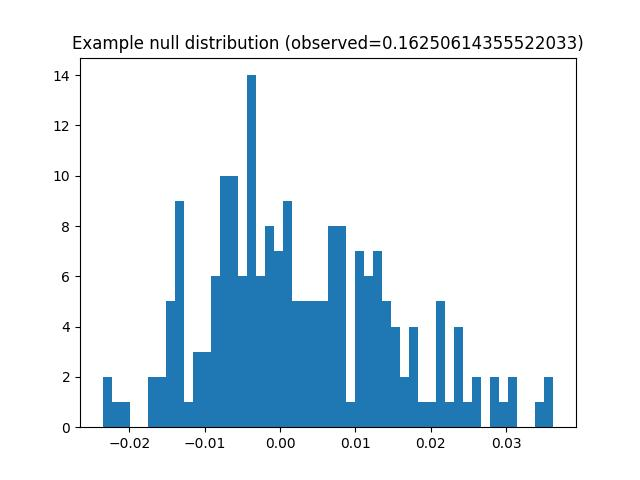
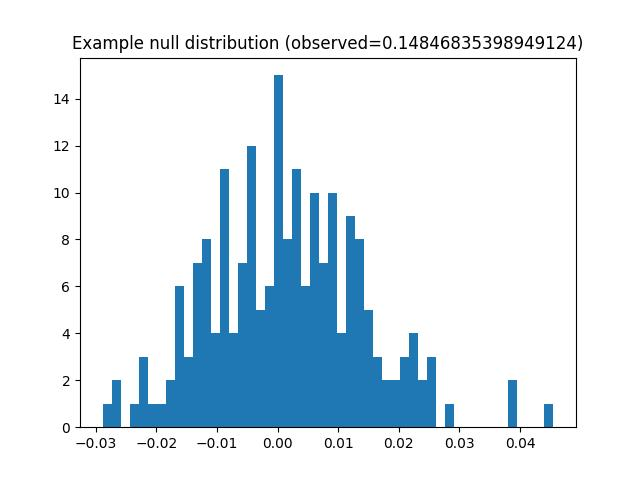
adding mean and stdev checks

diff --git a/sim_isc.py b/sim_isc.py
@@ -11,43 +11,52 @@ import pandas as pd
 
 import scipy
 
-ntp=200
-nsubj=20
-nsim = 100
+ntp = 200
+nsubj = 20
+nsim = 50
 norder = 6  # normally the voxels dimension, here I'm using it for our different orders
 
 amp_noise_mean = 2
 amp_noise_std = 1
-amp_order_factor = [1,1,1,1.2,0.8,0.7] # some orders have less signal and more noise
+# some orders have less signal and more noise
+amp_order_factor = [1, 1, 1, 1.2, 0.8, 0.7]
 
 # Noise
-allisc=[]
-allp_sw=[]
-allp_combined_method1_sw=[]
-allp_combined_method2_sw=[]
-allp_ew=[]
+allisc = []
+allp_sw = []
+allp_combined_method1_sw = []
+allp_combined_method2_sw = []
+allp_ew = []
+allmean_sw = []
+allstd_sw = []
+allmean_combined_method2_sw = []
+allstd_combined_method2_sw = []
 
 # Signal amplitude
 
-df=pd.DataFrame()
+df = pd.DataFrame()
 
-for amp_sig in np.arange(0,1,0.1):
-        
+for amp_sig in np.arange(0, 1, 0.25):
+
     for simind in range(nsim):
-        y=np.zeros((ntp, norder, nsubj)) 
+        y = np.zeros((ntp, norder, nsubj))
         for orderind in range(norder):
-            sig =  amp_order_factor[orderind] * amp_sig * np.random.randn(ntp) # Signal for a given orderel (i.e., order)        
+            # Signal for a given orderel (i.e., order)
+            sig = amp_order_factor[orderind] * amp_sig * np.random.randn(ntp)
             for subjind in range(nsubj):
-                subjnoise = amp_noise_mean + np.random.randn(1)*amp_noise_std # add noise for each subject (some better than others)
-                y[:,orderind,subjind] = np.random.randn(ntp) / amp_order_factor[orderind] * subjnoise + sig # signal same for all subjects
+                # add noise for each subject (some better than others)
+                subjnoise = amp_noise_mean + np.random.randn(1)*amp_noise_std
+                y[:, orderind, subjind] = np.random.randn(
+                    ntp) / amp_order_factor[orderind] * subjnoise + sig  # signal same for all subjects
         simisc = isc(y, pairwise=True)
         if not simind:
             plt.figure()
-            plt.imshow(squareform(simisc[:,0]))
+            plt.imshow(squareform(simisc[:, 0]))
             plt.colorbar()
             plt.savefig('exampleisc.jpg')
-        
-        observed, ci, p, distribution = bootstrap_isc(simisc, pairwise=True, n_bootstraps=200 )
+
+        observed, ci, p, distribution = bootstrap_isc(
+            simisc, pairwise=True, n_bootstraps=200)
         #allp_sw.append( p)
 
         # Shift bootstrap distribution to 0 for hypothesis test
@@ -58,30 +67,36 @@ for amp_sig in np.arange(0,1,0.1):
                         side='right', exact=False,
                         axis=0)
         allp_sw.append(p)
+        allmean_sw.append(np.mean(distribution, axis=0))
+        allstd_sw.append(np.std(distribution, axis=0))
 
         # Alternatively single p from combined data
 
         # METHOD 1 - average SHIFTED
         combined_p = p_from_null(np.mean(observed), np.mean(shifted, axis=1),
-                        side='right', exact=False,
-                        axis=0)
+                                 side='right', exact=False,
+                                 axis=0)
         allp_combined_method1_sw.append(combined_p)
 
         if not simind:
             plt.figure()
             plt.hist(shifted.ravel(), bins=50)
-            plt.title(f'Example null distribution (observed={np.mean(observed)})')
+            plt.title(
+                f'Example null distribution (observed={np.mean(observed)})')
             plt.savefig(f'null_dist_method1.jpg')
 
         # METHOD 2 - average DISTRIBUTION
         distribution = np.mean(np.array(distribution), axis=1)
         # Shift bootstrap distribution to 0 for hypothesis test
-        observed2 = np.mean(compute_summary_statistic(simisc, 'median', axis=0))
+        observed2 = np.mean(
+            compute_summary_statistic(simisc, 'median', axis=0))
         shifted = distribution - observed2
         combined_p = p_from_null(observed2, shifted,
-                        side='right', exact=False,
-                        axis=0)
+                                 side='right', exact=False,
+                                 axis=0)
         allp_combined_method2_sw.append(combined_p)
+        allmean_combined_method2_sw.append(np.mean(distribution))
+        allstd_combined_method2_sw.append(np.std(distribution))
 
         if not simind:
             plt.figure()
@@ -89,22 +104,57 @@ for amp_sig in np.arange(0,1,0.1):
             plt.title(f'Example null distribution (observed={observed2})')
             plt.savefig(f'null_dist_method2.jpg')
 
-        
-
     print(f'signal {amp_sig}')
-    print(f' SW individual false positive rate (alpha=0.05) {np.mean(np.array(allp_sw)<0.05, axis=0)}')
-    print(f' SW combined method 1 false positive rate (alpha=0.05) {np.mean(np.array(allp_combined_method1_sw)<0.05, axis=0)}')
-    print(f' SW combined method 2 false positive rate (alpha=0.05) {np.mean(np.array(allp_combined_method2_sw)<0.05, axis=0)}')
+    print(
+        f' SW individual false positive rate (alpha=0.05) {np.mean(np.array(allp_sw)<0.05, axis=0)}')
+    print(
+        f' SW combined method 1 false positive rate (alpha=0.05) {np.mean(np.array(allp_combined_method1_sw)<0.05, axis=0)}')
+    print(
+        f' SW combined method 2 false positive rate (alpha=0.05) {np.mean(np.array(allp_combined_method2_sw)<0.05, axis=0)}')
 
-    df = df.append({'amp_sig':amp_sig, 'fpr_ind': np.mean(np.array(allp_sw)<0.05, axis=0), 'fpr_comb1': np.mean(np.array(allp_combined_method1_sw)<0.05, axis=0), 'fpr_comb2': np.mean(np.array(allp_combined_method2_sw)<0.05, axis=0)}, ignore_index=True)
+    df = df.append({'amp_sig': amp_sig, 
+        'fpr_ind': np.mean(np.array(allp_sw) < 0.05, axis=0), 
+        'fpr_comb1': np.mean(np.array(allp_combined_method1_sw) < 0.05, axis=0), 
+        'fpr_comb2': np.mean(np.array(allp_combined_method2_sw) < 0.05, axis=0), 
+        'allmean_sw': np.mean(np.array(allmean_sw), axis=0), 
+        'allstd_sw': np.mean(np.array(allstd_sw), axis=0), 
+        'allmean_combined_method2_sw': np.mean(np.array(allmean_combined_method2_sw), axis=0), 
+        'allstd_combined_method2_sw': np.mean(np.array(allstd_combined_method2_sw), axis=0), 
+        }, ignore_index=True)
+
 df.to_csv('fpr_by_signal.csv')
 plt.figure()
 for ind in range(norder):
     plt.plot(df['amp_sig'], [x[ind] for x in df['fpr_ind']], color='gray')
-plt.plot('amp_sig', 'fpr_comb1','bx', data=df )
+plt.plot('amp_sig', 'fpr_comb1', 'bx', data=df)
 plt.plot('amp_sig', 'fpr_comb2', 'r+', data=df)
 plt.xlabel('Amplitude of signal')
 plt.ylabel('Probability of rejecting H0')
 plt.savefig('fpr_by_signal.jpg')
-#print(allp)
-a=1
+
+# Check mean against analytic calc
+plt.figure()
+for ind in range(norder):
+    plt.plot(df['amp_sig'], [x[ind] for x in df['allmean_sw']], color='gray')
+plt.plot(df['amp_sig'], [np.mean(x) for x in df['allmean_sw']], 'go')
+plt.plot('amp_sig', 'allmean_combined_method2_sw', 'r+', data=df)
+
+plt.legend('Predicted','method2')
+plt.xlabel('Amplitude of signal')
+plt.ylabel('Mean')
+plt.savefig('mean_by_signal.jpg')
+
+# Check standard dev against analytic calc
+plt.figure()
+for ind in range(norder):
+    plt.plot(df['amp_sig'], [x[ind] for x in df['allstd_sw']], color='gray')
+plt.plot(df['amp_sig'], [np.sqrt(np.sum(x**2))/norder for x in df['allstd_sw']], 'go')
+plt.plot('amp_sig', 'allstd_combined_method2_sw', 'r+', data=df)
+
+plt.legend('Predicted','method2')
+plt.xlabel('Amplitude of signal')
+plt.ylabel('Standard deviation')
+plt.savefig('std_by_signal.jpg')
+
+# print(allp)
+a = 1
